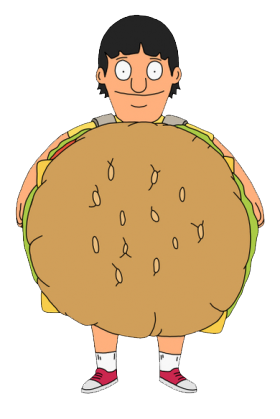
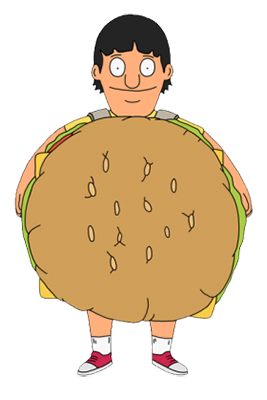
Resize images, update index and character pages.

diff --git a/Louise.html b/Louise.html
@@ -7,13 +7,13 @@
 <header>
 	<a href="index.html">Home</a>
 </header>
-<img src="images/Louise.png" alt="Louise" height="571" width="350">
+<img src="images/Louise.png" alt="Louise">
 <h1>Louise Belcher</h1>
 <p>Louise is the Belcher's youngest and most cynical child.</p>
 <h2>Favorite Louise quotes:</h2>
 <ul>
 	<li>Turns out dad has been putting murdered cows in our hamburgers!</li>
-	<li>Why don't you start speaking in words, instead of your DAMN DIRTY LIES!</li>
+	<li>Why don't you start speaking in words, instead of your <b>DAMN DIRTY LIES!</b></li>
 	<li>Hey, I don't appreciate your lack of sarcasm.</li>
 </ul>
 </body>

diff --git a/Linda.html b/Linda.html
@@ -7,14 +7,14 @@
 <header>
 	<a href="index.html">Home</a>
 </header>
-<img src="images/Linda.png" alt="Linda" height="324" width="167" >
+<img src="images/Linda.png" alt="Linda">
 <h1>Linda Belcher</h1>
 <p>Linda is Bob's saucy wife.</p>
 <h2>Favorite Gene quotes:</h2>
 <ul>
 	<li>Alriiiiiiiiight!</li>
 	<li>When I die I want you to cremate me and throw my ashes in Tom Selleck's face.</li>
-	<li>I already picked out what it'll say on your tombstone. Order up.</li>
+	<li>I already picked out what it'll say on your tombstone: <i>Order up.</i></li>
 </ul>
 </body>
 </html>

diff --git a/index.html b/index.html
@@ -15,9 +15,7 @@
 	<a href="Gene.html">Gene</a>
 	<a href="Louise.html">Louise</a>
 </nav>
-<form>
-	
-</form>
-<p></p>
+
+<p>You can find a much better Bob's Burger's fan site located <a href="http://bobs-burgers.wikia.com/wiki/Bob%27s_Burgers_Wiki">here</a>.  In addition to featuring more content, the wikia webpage generally has a more cohesive and pleasing look. It includes an interactive menu bar and a sidebar with extra content. The code includes a fair amount of JavaScript, though I am not quite sure what it is doing yet.</p>
 </body>
 </html>

diff --git a/Bob.html b/Bob.html
@@ -7,7 +7,7 @@
 <header>
 	<a href="index.html">Home</a>
 </header>
-<img src="images/Bob.jpg" alt="Bob" height="432" width="258">
+<img src="images/Bob.jpg" alt="Bob">
 <h1>Bob Belcher</h1>
 <p>Bob is the patriarch of the Belcher Family and the eponymous burger man.</p>
 <p>Bob loves to make punny burgers of the day.  Here are some of the best:</p>
